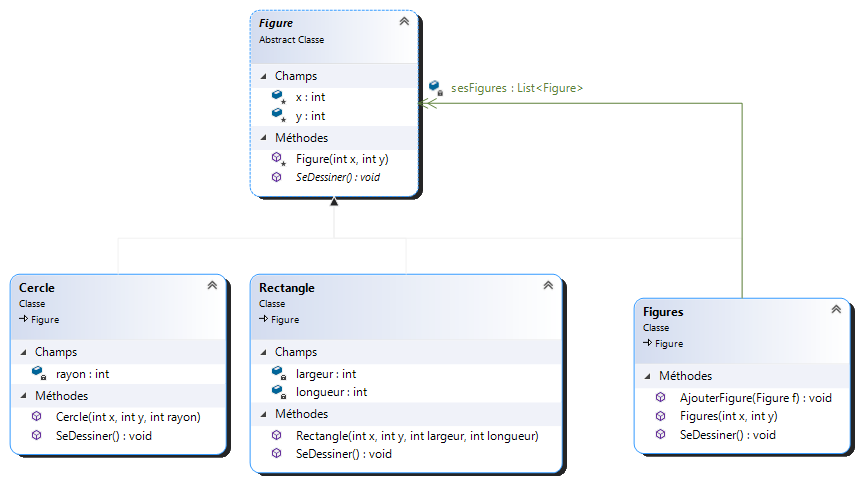
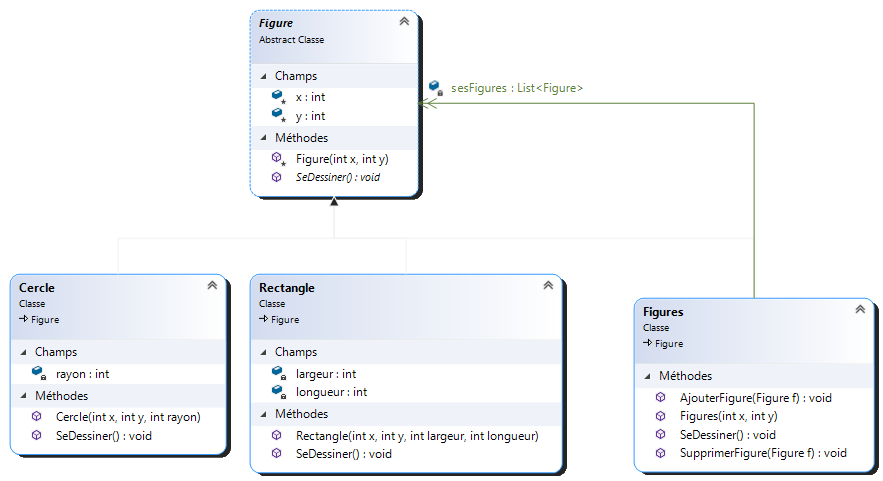
exercice figures supprimer une figure

diff --git a/FOAD_Design_Patterns/Design_Patterns/ClassLibraryDesignPaternFigure/Figures.cs b/FOAD_Design_Patterns/Design_Patterns/ClassLibraryDesignPaternFigure/Figures.cs
@@ -20,6 +20,10 @@ namespace ClassLibraryDesignPaternFigure
         {
             this.sesFigures.Add(f);
         }
+        public void SupprimerFigure(Figure f)
+        {
+            this.sesFigures.Remove(f);
+        }
 
         public override void SeDessiner()
         {
